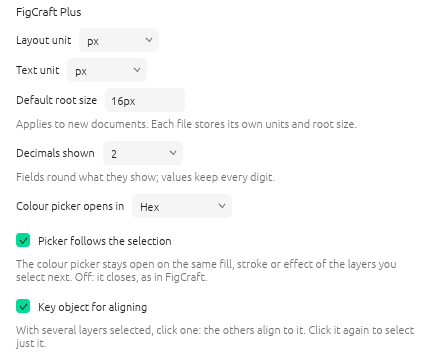
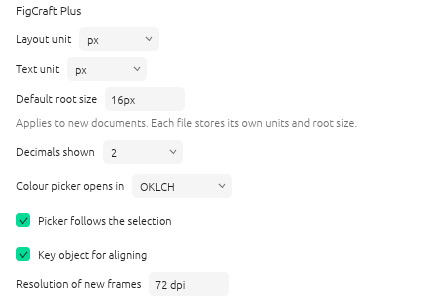
Plus 14: screenshots 49-52, px first in the line height switch, a shorter Preferences section
Claude-Session: https://claude.ai/code/session_01KqHJgkJP2qX7Hp8X4h8nfW

diff --git a/overlay/crates/ui-egui/src/prefs_plus_ui.rs b/overlay/crates/ui-egui/src/prefs_plus_ui.rs
@@ -173,14 +173,13 @@ pub(crate) fn preferences(ui: &mut Ui) {
     widgets::label(ui, tr("Applies to new documents. Each file stores its own units and root size."), t.text_secondary);
     ui.add_space(4.0);
     ui.horizontal(|ui| {
-        ui.label(tr("Decimals shown"));
+        ui.label(tr("Decimals shown")).on_hover_text(tr("Fields round what they show; values keep every digit."));
         const DIGITS: [&str; 5] = ["0", "1", "2", "3", "4"];
         let now = DIGITS[usize::from(p.precision.min(4))];
         if let Some(d) = unit_menu(ui, now, &DIGITS) {
             set(|p| p.precision = d.parse().unwrap_or(2));
         }
     });
-    widgets::label(ui, tr("Fields round what they show; values keep every digit."), t.text_secondary);
     ui.add_space(4.0);
     ui.horizontal(|ui| {
         ui.label(tr("Colour picker opens in"));
@@ -195,25 +194,31 @@ pub(crate) fn preferences(ui: &mut Ui) {
         });
     });
     ui.add_space(4.0);
-    if widgets::checkbox(ui, p.picker_follows_selection, tr("Picker follows the selection")) {
-        set(|p| p.picker_follows_selection = !p.picker_follows_selection);
-    }
-    widgets::label(ui, tr("The colour picker stays open on the same fill, stroke or effect of the layers you select next. Off: it closes, as in FigCraft."), t.text_secondary);
+    // The explanation on hover keeps the section short enough for the window.
+    ui.scope(|ui| {
+        if widgets::checkbox(ui, p.picker_follows_selection, tr("Picker follows the selection")) {
+            set(|p| p.picker_follows_selection = !p.picker_follows_selection);
+        }
+    })
+    .response
+    .on_hover_text(tr("The colour picker stays open on the same fill, stroke or effect of the layers you select next. Off: it closes, as in FigCraft."));
     ui.add_space(4.0);
-    if widgets::checkbox(ui, p.key_object, tr("Key object for aligning")) {
-        set(|p| p.key_object = !p.key_object);
-    }
-    widgets::label(ui, tr("With several layers selected, click one: the others align to it. Click it again to select just it."), t.text_secondary);
-    ui.add_space(4.0);
+    // The explanation on hover keeps the section short enough for the window.
+    ui.scope(|ui| {
+        if widgets::checkbox(ui, p.key_object, tr("Key object for aligning")) {
+            set(|p| p.key_object = !p.key_object);
+        }
+    })
+    .response
+    .on_hover_text(tr("With several layers selected, click one: the others align to it. Click it again to select just it."));
     ui.horizontal(|ui| {
-        ui.label(tr("Resolution of new frames"));
+        ui.label(tr("Resolution of new frames")).on_hover_text(tr("72 for the web; 300 for print. Each frame keeps its own, in Layout."));
         if let Some(FieldEdit::Set(v) | FieldEdit::Scrub(v, true)) =
             widgets::number_field(ui, Id::unique("figcraftplus_pref_dpi"), Lead::None, Some(p.dpi), " dpi", 80.0, 1.0)
         {
             set(|p| p.dpi = v.clamp(figcraft_engine::dpi::MIN, figcraft_engine::dpi::MAX));
         }
     });
-    widgets::label(ui, tr("72 for the web; 300 for print. Each frame keeps its own, in Layout."), t.text_secondary);
     if !p.font_replacements.is_empty() {
         ui.add_space(6.0);
         ui.label(egui::RichText::new(tr("Remembered font replacements")).font(regular(11.0)).color(t.text));

diff --git a/overlay/crates/ui-egui/src/leading_ui.rs b/overlay/crates/ui-egui/src/leading_ui.rs
@@ -3,7 +3,7 @@
 //! - The variable picker of a line height (a text layer's, a text style's) has a **px | %** switch
 //!   under its search field: px binds the variable FigCraft's way, % makes the line height follow it
 //!   as a percentage of the font size (140 → 140%, 1.4 → 140%). The rows then show their values as
-//!   percentages (this file's variables only). The switch opens on how the field is bound now, else on the last choice (% first).
+//!   percentages (this file's variables only). The switch opens on how the field is bound now, else on the last choice (px, as FigCraft binds, until % is picked).
 //! - A line height that follows a variable shows its chip, as a bound field does, with a `%`: a
 //!   click on it opens the picker, its detach button keeps the value and ends the link.
 
@@ -63,7 +63,7 @@ fn opens_in_percent(ctx: &egui::Context, doc: &Document, target: &Target) -> boo
     if px {
         return false;
     }
-    ctx.data(|d| d.get_temp::<bool>(remembered_id())).unwrap_or(true)
+    ctx.data(|d| d.get_temp::<bool>(remembered_id())).unwrap_or(false)
 }
 
 /// The picker for `target` is about to draw: switch the line-height mode on (or off for any other
@@ -165,8 +165,9 @@ pub(crate) fn apply(app: &mut FigApp, target: &Target, pick: &Pick) {
 fn chip_label(name: &str, at: Option<figcraft_doc::LineHeight>) -> String {
     let short = name.rsplit('/').next().unwrap_or(name);
     match at {
-        Some(figcraft_doc::LineHeight::Percent(p)) => format!("{short} · {}%", figcraft_doc::text::trim_num(p)),
-        _ => format!("{short} · %"),
+        // The percentage first: the chip is narrow.
+        Some(figcraft_doc::LineHeight::Percent(p)) => format!("{}% {short}", figcraft_doc::text::trim_num(p)),
+        _ => format!("% {short}"),
     }
 }
 

diff --git a/README.md b/README.md
@@ -439,7 +439,7 @@ the files and keeps the last computed values.
 >
 > **FigCraft Plus:** **Preferences ▸ FigCraft Plus**: the layout and text units and the root size for new files, and the model the colour picker opens in.
 
-<img src="docs/images/37-preferences.png" width="440" alt="Preferences ▸ FigCraft Plus: layout unit, text unit, default root size, decimals shown, the model the colour picker opens in, Picker follows the selection, Key object for aligning">
+<img src="docs/images/37-preferences.png" width="440" alt="Preferences ▸ FigCraft Plus: layout unit, text unit, default root size, decimals shown, the model the colour picker opens in, Picker follows the selection, Key object for aligning, Resolution of new frames 72 dpi">
 
 | Setting | What it does |
 |---|---|
@@ -846,11 +846,11 @@ in exports. That fixes imports that arrive in the wrong order (`n-xs, n-6xl, n-s
 >
 > **FigCraft Plus:** The line height can follow a number variable as a **percentage of the font size**, as CSS writes it: `leading/normal = 140%` suits every size.
 
-<img src="docs/images/49-line-height-percent.png" width="560" alt="The line height's variable list with the px | % switch on %: leading/tight 120%, normal 140%, relaxed 160%; the field reads normal · 140%">
+<img src="docs/images/49-line-height-percent.png" width="560" alt="The line height's variable list with the px | % switch on %: leading/tight 120%, normal 140%, relaxed 160%; the field reads 140% normal">
 
 - Hover the line height field, click the variable button, and pick **%** in the *Line height in px | %*
   switch under the search — the list then shows each variable as a percentage. The field shows its
-  chip, `normal · 140%`; a click on it picks another, its detach button keeps the value.
+  chip, `140% normal`; a click on it picks another, its detach button keeps the value.
 - A value up to 5 is a ratio, as a unitless CSS `line-height`: `1.4` is 140%. Above, a percentage.
 - Text layers and **text styles** (the style dialog's line height) take it; the layers using a
   style follow it. Modes switch it (tight leading on Mobile, relaxed on Desktop).
@@ -906,7 +906,7 @@ in exports. That fixes imports that arrive in the wrong order (`n-xs, n-6xl, n-s
 >
 > **FigCraft Plus:** **PDF/X-4** for coated FOGRA39 paper: the file a print shop's preflight expects.
 
-<img src="docs/images/52-pdfx.png" width="300" alt="A PDF export setting's print options: bleed 3 mm, crop marks, CMYK colour, and PDF/X-4 (coated FOGRA39) ticked">
+<img src="docs/images/52-pdfx.png" width="222" alt="A PDF export setting's print options: 8.5 pt bleed, crop marks, CMYK colour, and PDF/X-4 (coated FOGRA39) ticked">
 
 - In a PDF export's print options, under **CMYK colour**: **PDF/X-4 (coated FOGRA39)**. Every
   CMYK PDF of the file is then PDF/X-4:
